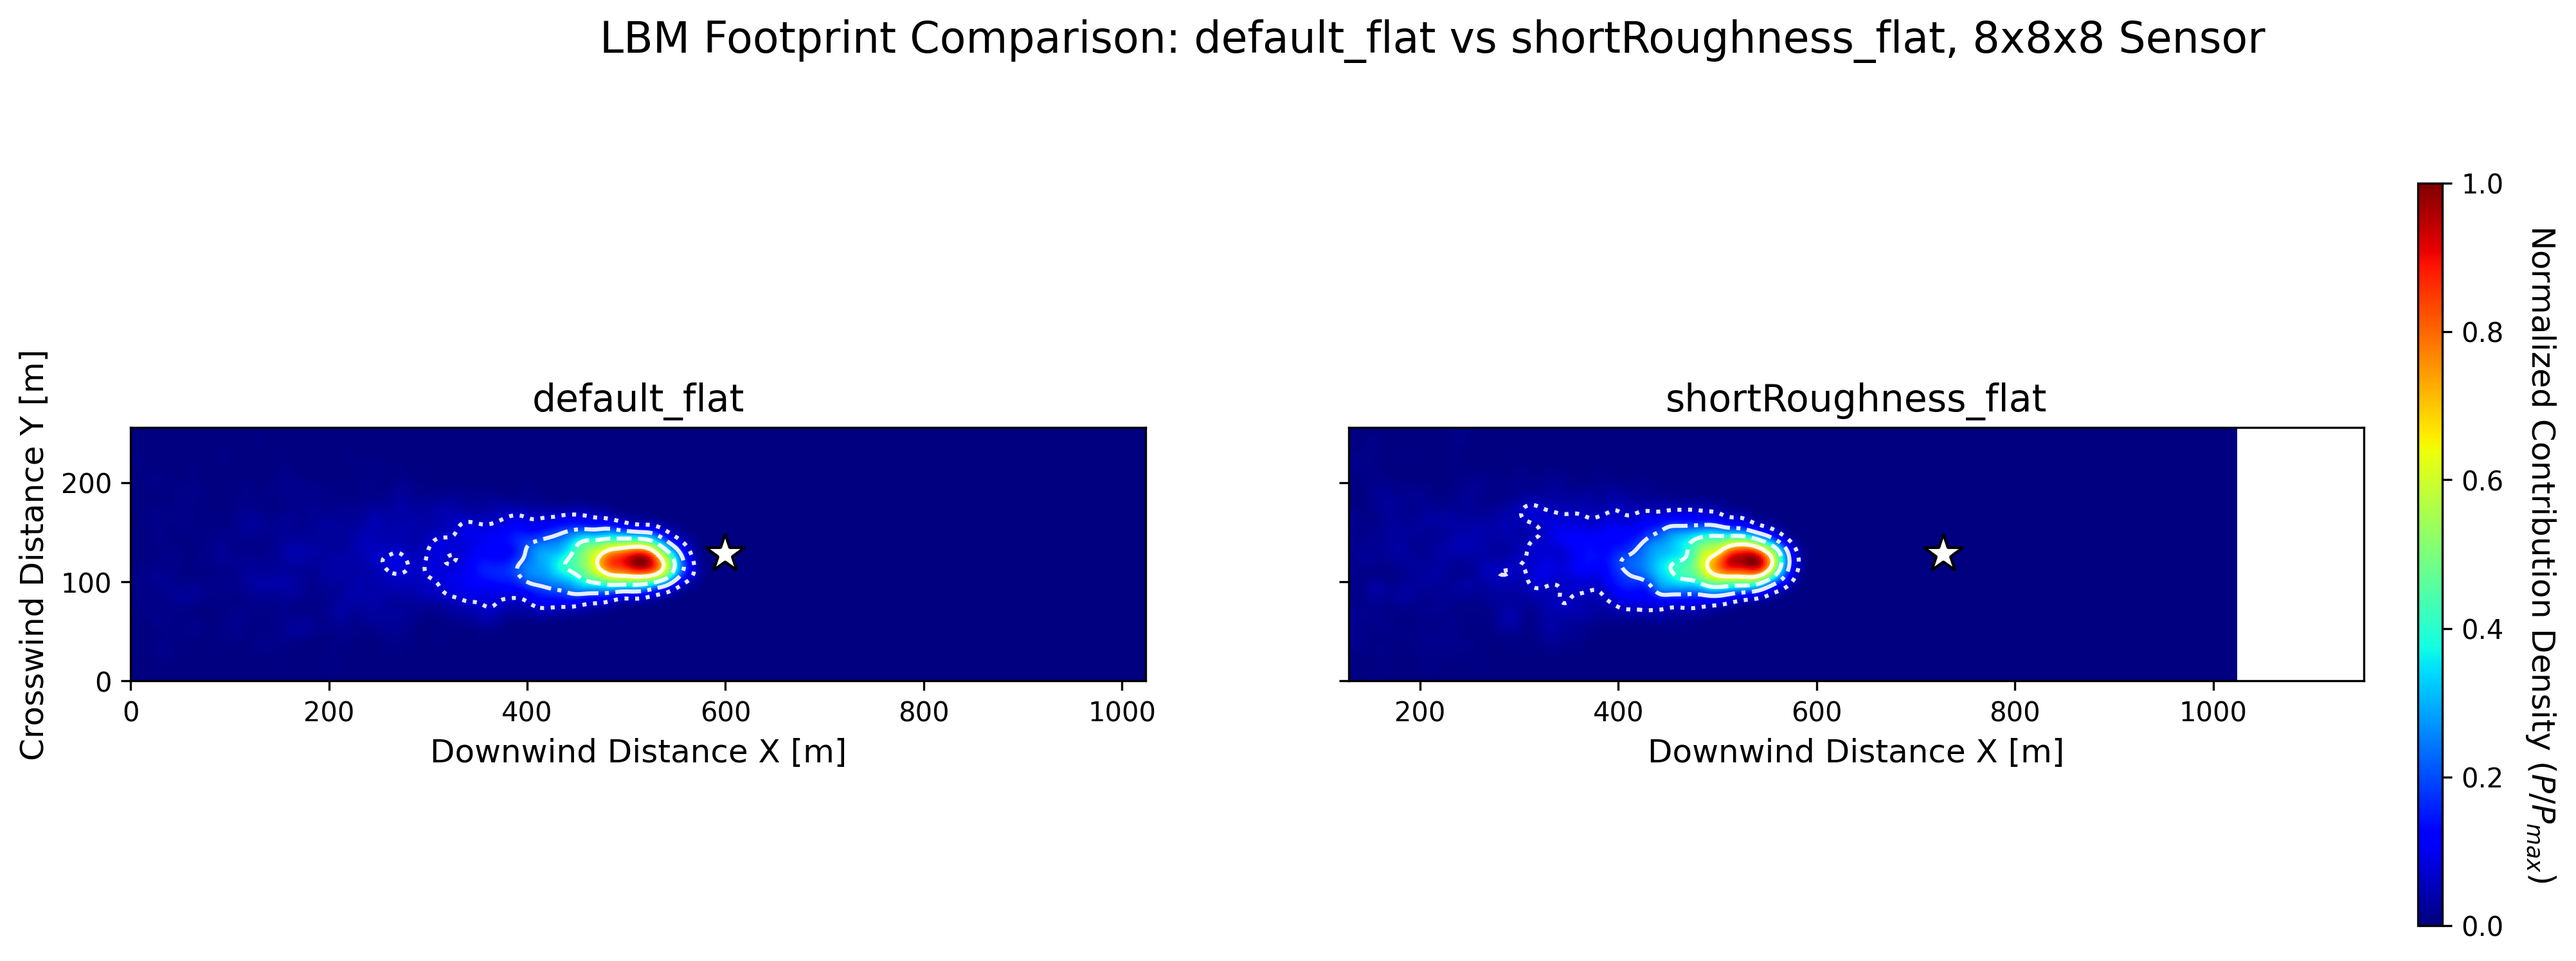
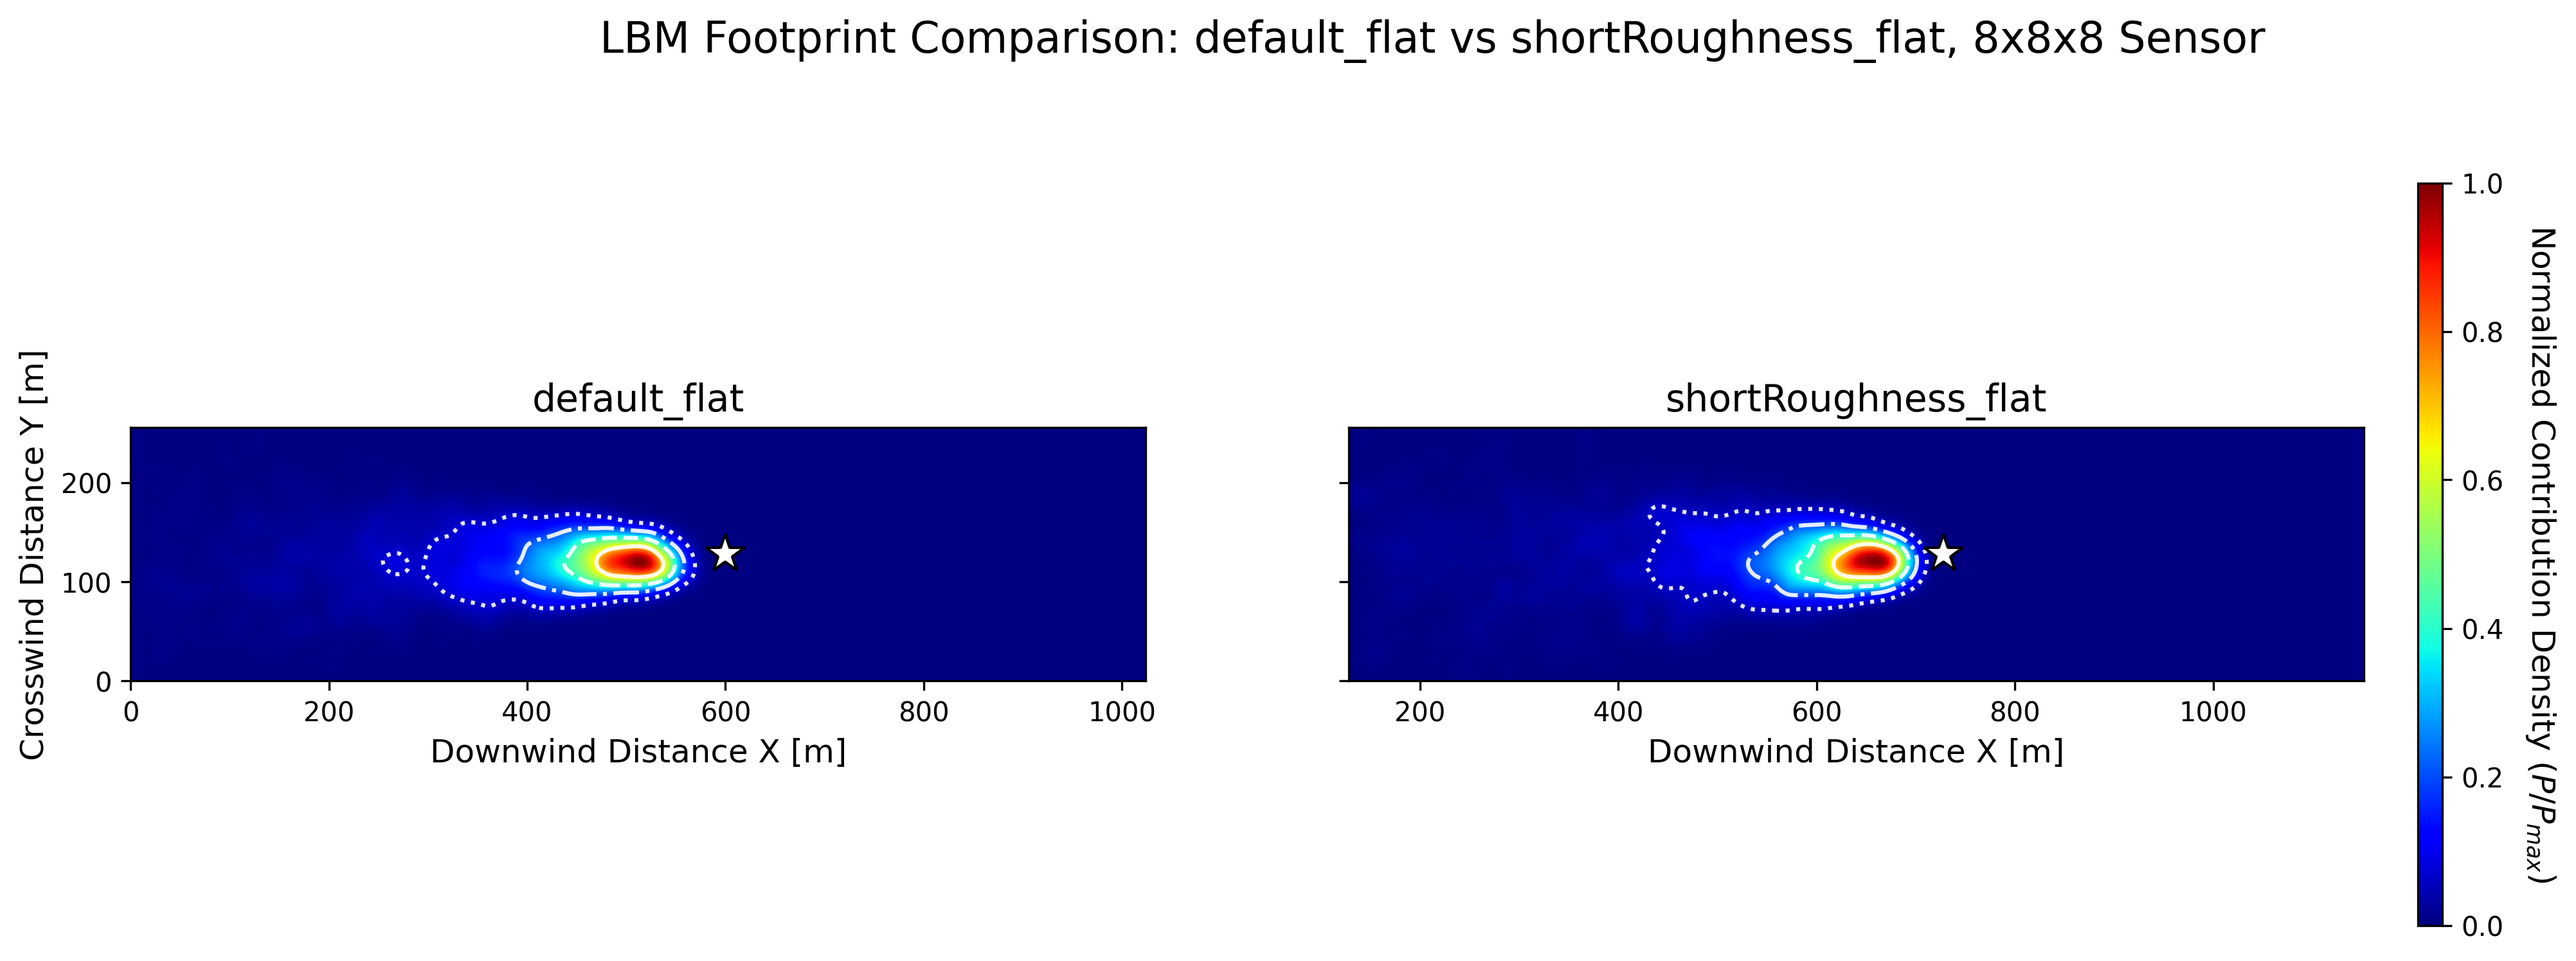
compare LBM cases update, short roughness comparisons

Changed region(s): [[0.8423, 0.4308, 0.9359, 0.7077], [0.5615, 0.4923, 0.7487, 0.6462], [0.1872, 0.5231, 0.2808, 0.6462]]

diff --git a/scripts/compare_lbm_cases.py b/scripts/compare_lbm_cases.py
@@ -16,91 +16,109 @@ from plotting_core.footprint_plots import plot_lbm_comparison
 
 def main():
     # 1. Paths and Setup
-    sensor_size_x = 40
-    sensor_size_y = 40
+    sensor_size_x = 8
+    sensor_size_y = 8
     sensor_size_z = 8
 
-    base_dir = r"Z:\Particle_PostProcess_Outputs"
-    pos_file = r"Z:\particle_position\particle_position.txt"
+    base_dir = r"Y:\Particle_PostProcess_Outputs"
+    
+    pos_file1 = r"Y:\particle_position\pos_flat_3072.txt"
+    pos_file2 = r"Y:\particle_position\pos_flat_3072_shortroughness.txt"
 
-    case_paths = {"Default V_SGS": "20260527_particle_flat_3072",
-                  "0.5 V_SGS": "20260619_particle_flat_halfVSGS"}
+    case_paths = {"default_flat": "20260527_particle_flat_3072",
+                  "halfVSGS_flat": "20260619_particle_flat_halfVSGS",
+                  "shortRoughness_flat": "20260703_particle_flat_shortroughness"}
 
     sensor_paths = {"8x8x8": "sensor_8x8x8",
                     "40x40x8": "sensor_40x40x8"}
 
     output_dir = rf"../figures/flat_domain/sensor_{sensor_size_x}x{sensor_size_y}x{sensor_size_z}/LBM_Case_comparisons"
     os.makedirs(output_dir, exist_ok=True)
+
+    # Establish the case conditions:
+    case1_name = "default_flat"
+    case2_name = "shortRoughness_flat"
     
-    x_bounds = [0, 1024]
-    y_bounds = [0, 256]
-    sensor_x = 600.0
-    sensor_y = 128.0
+    x_bounds1 = [0, 1024]
+    y_bounds1 = [0, 256]
+
+    x_bounds2 = [128, 1152]
+    y_bounds2 = [0, 256]
+
+    sensor_x1 = 600.0
+    sensor_y1 = 128.0
+
+    sensor_x2 = 728.0
+    sensor_y2 = 128.0
+
     contour_levels = [0.8, 0.6, 0.4, 0.2]
 
     # sigma_v_dict = params["sigma_v"]
     sensor_heights = [10, 20, 30, 40]
     
     print("Loading source positions...")
-    source_map = load_source_positions(pos_file)
+    source1_map = load_source_positions(pos_file1)
+    source2_map = load_source_positions(pos_file2)
     
-    print("--- Commencing Default (1.0) V_SGS LBM vs 0.5 V_SGS LBM Comparison ---")
+    print(f"--- Commencing LBM Case Comparison ---")
     
     for sz in sensor_heights:
 
-        target_sigma = 0.4 + (sz / 31.25)
+        target_sigma = 0.4 + (sz / 25.0)
         # ==========================================
         # STEP A: LOAD LBM CASE 1 DATA
         # ==========================================
-        csv1_path = os.path.join(base_dir, case_paths["Default V_SGS"], sensor_paths[f"{sensor_size_x}x{sensor_size_y}x{sensor_size_z}"], "1200-1800_footprint", f"footprint_{int(sensor_x)}_{int(sensor_y)}_{sz}.csv")
+        csv1_path = os.path.join(base_dir, case_paths[case1_name], sensor_paths[f"{sensor_size_x}x{sensor_size_y}x{sensor_size_z}"], "1200-1800_footprint", f"footprint_{int(sensor_x1)}_{int(sensor_y1)}_{sz}.csv")
         if not os.path.exists(csv1_path):
             print(f"  [!] Skipping {csv1_path} - not found.")
             continue
             
         count1_map = load_footprint_counts(csv1_path)
-        x1_pts, y1_pts, counts1 = merge_counts_with_positions(source_map, count1_map)
+        x1_pts, y1_pts, counts1 = merge_counts_with_positions(source1_map, count1_map)
         
-        X1_low, Y1_low, raw1_pdf = points_to_grid(x1_pts, y1_pts, counts1, dx=8.0, dy=8.0, x_bounds=x_bounds, y_bounds=y_bounds)
+        X1_low, Y1_low, raw1_pdf = points_to_grid(x1_pts, y1_pts, counts1, dx=8.0, dy=8.0, x_bounds=x_bounds1, y_bounds=y_bounds1)
 
         smoothed1_pdf = smooth_footprint_grid(raw1_pdf, dx=8.0, dy=8.0, sigma=target_sigma)
         
         X1_fine, Y1_fine, lbm1_pdf_fine = refine_footprint_grid(
-            X1_low, Y1_low, smoothed1_pdf, x_bounds=x_bounds, y_bounds=y_bounds, target_res=1.0
+            X1_low, Y1_low, smoothed1_pdf, x_bounds=x_bounds1, y_bounds=y_bounds1, target_res=1.0
         )
         lbm1_thresholds = get_contour_thresholds(lbm1_pdf_fine, dx=1.0, dy=1.0, levels=contour_levels)
 
         # ==========================================
         # STEP B: LOAD LBM CASE 2 DATA
         # ==========================================
-        csv2_path = os.path.join(base_dir, case_paths["0.5 V_SGS"], sensor_paths[f"{sensor_size_x}x{sensor_size_y}x{sensor_size_z}"], "1200-1800_footprint", f"footprint_{int(sensor_x)}_{int(sensor_y)}_{sz}.csv")
+        csv2_path = os.path.join(base_dir, case_paths[case2_name], sensor_paths[f"{sensor_size_x}x{sensor_size_y}x{sensor_size_z}"], "1200-1800_footprint", f"footprint_{int(sensor_x2)}_{int(sensor_y2)}_{sz}.csv")
         if not os.path.exists(csv2_path):
             print(f"  [!] Skipping {csv2_path} - not found.")
             continue
             
         count2_map = load_footprint_counts(csv2_path)
-        x2_pts, y2_pts, counts2 = merge_counts_with_positions(source_map, count2_map)
+        x2_pts, y2_pts, counts2 = merge_counts_with_positions(source2_map, count2_map)
         
-        X2_low, Y2_low, raw2_pdf = points_to_grid(x2_pts, y2_pts, counts2, dx=8.0, dy=8.0, x_bounds=x_bounds, y_bounds=y_bounds)
+        X2_low, Y2_low, raw2_pdf = points_to_grid(x2_pts, y2_pts, counts2, dx=8.0, dy=8.0, x_bounds=x_bounds2, y_bounds=y_bounds2)
 
         smoothed2_pdf = smooth_footprint_grid(raw2_pdf, dx=8.0, dy=8.0, sigma=target_sigma)
         
         X2_fine, Y2_fine, lbm2_pdf_fine = refine_footprint_grid(
-            X2_low, Y2_low, smoothed2_pdf, x_bounds=x_bounds, y_bounds=y_bounds, target_res=1.0
+            X2_low, Y2_low, smoothed2_pdf, x_bounds=x_bounds2, y_bounds=y_bounds2, target_res=1.0
         )
         lbm2_thresholds = get_contour_thresholds(lbm2_pdf_fine, dx=1.0, dy=1.0, levels=contour_levels)
         
         # ==========================================
         # STEP C: PLOT COMPARISON
         # ==========================================
-        save_path = os.path.join(output_dir, f"side_by_side_lbmDefault_lbmHalfV_z{sz}.png")
+        save_path = os.path.join(output_dir, f"side_by_side_{case1_name}_{case2_name}_z{sz}.png")
         plot_lbm_comparison(
-            X=X1_fine, Y=Y1_fine, 
+            X1=X1_fine, Y1=Y1_fine, X2=X2_fine, Y2=Y2_fine, 
             lbm1_pdf=lbm1_pdf_fine, lbm2_pdf=lbm2_pdf_fine, 
             lbm1_thresholds=lbm1_thresholds, lbm2_thresholds=lbm2_thresholds,
-            sensor_pos=(sensor_x, sensor_y), 
-            title=f"LBM Footprint Comparison: Default (1.0) V_SGS vs 0.5 V_SGS, {sensor_size_x}x{sensor_size_y}x{sensor_size_z} Sensor",
-            case1_title="Default (1.0) V_SGS", case2_title="0.5 V_SGS",
-            save_path=save_path, x_bounds=x_bounds, y_bounds=y_bounds
+            sensor_pos1=(sensor_x1, sensor_y1), sensor_pos2=(sensor_x2, sensor_y2), 
+            title=f"LBM Footprint Comparison: {case1_name} vs {case2_name}, {sensor_size_x}x{sensor_size_y}x{sensor_size_z} Sensor",
+            case1_title=case1_name, case2_title=case2_name,
+            save_path=save_path,
+            x_bounds1=x_bounds1, y_bounds1=y_bounds1, 
+            x_bounds2=x_bounds2, y_bounds2=y_bounds2
         )
         print(f"  -> Saved LBM Cases comparison to {save_path}")
 

diff --git a/plotting_core/footprint_plots.py b/plotting_core/footprint_plots.py
@@ -42,6 +42,7 @@ def plot_absolute_footprint(x, y, counts, sensor_x, sensor_y, save_path, domain_
     plt.close(fig)
     print(f"Saved footprint figure to: {save_path}")
 
+
 def plot_footprint_overlay(X, Y, lbm_pdf, schmid_pdf, lbm_thresh, schmid_thresh, 
                            sensor_pos, title, save_path, x_bounds=[0, 1024], y_bounds=[0, 256]):
     """
@@ -78,6 +79,7 @@ def plot_footprint_overlay(X, Y, lbm_pdf, schmid_pdf, lbm_thresh, schmid_thresh,
     plt.tight_layout()
     plt.savefig(save_path, dpi=300)
     plt.close()
+    
 
 def plot_model_comparison(X, Y, lbm_pdf, model_pdf, lbm_thresholds, model_thresholds, 
                           sensor_pos, title, model_title, save_path, x_bounds=[0, 1024], y_bounds=[0, 256]):
@@ -142,8 +144,9 @@ def plot_model_comparison(X, Y, lbm_pdf, model_pdf, lbm_thresholds, model_thresh
     plt.close(fig)
 
 
-def plot_lbm_comparison(X, Y, lbm1_pdf, lbm2_pdf, lbm1_thresholds, lbm2_thresholds,
-                          sensor_pos, title, case1_title, case2_title, save_path, x_bounds=[0, 1024], y_bounds=[0, 256]):
+def plot_lbm_comparison(X1, Y1, X2, Y2, lbm1_pdf, lbm2_pdf, lbm1_thresholds, lbm2_thresholds,
+                          sensor_pos1, sensor_pos2, title, case1_title, case2_title, save_path,
+                          x_bounds1=[0, 1024], y_bounds1=[0, 256], x_bounds2=[0, 1024], y_bounds2=[0, 256]):
     """
     Plots two LBM footprint cases side-by-side as normalized heatmaps.
     """
@@ -169,29 +172,30 @@ def plot_lbm_comparison(X, Y, lbm1_pdf, lbm2_pdf, lbm1_thresholds, lbm2_threshol
     # ==========================================
     # PANEL 1: LBM CASE 1 DATA
     # ==========================================
-    im1 = ax1.pcolormesh(X, Y, lbm1_norm, **mesh_kwargs)
-    ax1.contour(X, Y, lbm1_norm, levels=lbm1_thresh_norm, colors='white', 
+    im1 = ax1.pcolormesh(X1, Y1, lbm1_norm, **mesh_kwargs)
+    ax1.contour(X1, Y1, lbm1_norm, levels=lbm1_thresh_norm, colors='white', 
                 linewidths=1.5, linestyles=line_styles, alpha=0.9)
     
-    ax1.plot(sensor_pos[0], sensor_pos[1], 'w*', markersize=15, markeredgecolor='k')
+    ax1.plot(sensor_pos1[0], sensor_pos1[1], 'w*', markersize=15, markeredgecolor='k')
     ax1.set_title(case1_title, fontsize=14)
     ax1.set_xlabel("Downwind Distance X [m]", fontsize=12)
     ax1.set_ylabel("Crosswind Distance Y [m]", fontsize=12)
-    ax1.set_xlim(x_bounds[0], x_bounds[1])
-    ax1.set_ylim(y_bounds[0], y_bounds[1])
+    ax1.set_xlim(x_bounds1[0], x_bounds1[1])
+    ax1.set_ylim(y_bounds1[0], y_bounds1[1])
     ax1.set_aspect('equal', adjustable='box')
 
     # ==========================================
     # PANEL 2: LBM CASE 2 DATA
     # ==========================================
-    im2 = ax2.pcolormesh(X, Y, lbm2_norm, **mesh_kwargs)
-    ax2.contour(X, Y, lbm2_norm, levels=lbm2_thresh_norm, colors='white', 
+    im2 = ax2.pcolormesh(X2, Y2, lbm2_norm, **mesh_kwargs)
+    ax2.contour(X2, Y2, lbm2_norm, levels=lbm2_thresh_norm, colors='white', 
                 linewidths=1.5, linestyles=line_styles, alpha=0.9)
     
-    ax2.plot(sensor_pos[0], sensor_pos[1], 'w*', markersize=15, markeredgecolor='k')
+    ax2.plot(sensor_pos2[0], sensor_pos2[1], 'w*', markersize=15, markeredgecolor='k')
     ax2.set_title(case2_title, fontsize=14)
     ax2.set_xlabel("Downwind Distance X [m]", fontsize=12)
-    ax2.set_xlim(x_bounds[0], x_bounds[1])
+    ax2.set_xlim(x_bounds2[0], x_bounds2[1])
+    ax1.set_ylim(y_bounds2[0], y_bounds2[1])
     ax2.set_aspect('equal', adjustable='box')
 
     # ==========================================

diff --git a/scripts/compare_kljun_lbm.py b/scripts/compare_kljun_lbm.py
@@ -18,27 +18,27 @@ from plotting_core.footprint_plots import plot_model_comparison
 
 def main():
     # 1. Paths and Setup
-    sensor_size_x = 40
-    sensor_size_y = 40
+    sensor_size_x = 8
+    sensor_size_y = 8
     sensor_size_z = 8
 
-    base_dir = rf"Z:\Particle_PostProcess_Outputs\20260619_particle_flat_halfVSGS\sensor_{sensor_size_x}x{sensor_size_y}x{sensor_size_z}"
-    pos_file = r"Z:\particle_position\particle_position.txt"
+    base_dir = rf"Y:\Particle_PostProcess_Outputs\20260703_particle_flat_shortroughness\sensor_{sensor_size_x}x{sensor_size_y}x{sensor_size_z}"
+    pos_file = r"Y:\particle_position\particle_position.txt"
     params_path = r"../physics_core/metrics/schmid_params.json"
     # lbm_profile_csv = r"Z:\20260527_output_flat_3072\prof00180000_0000.csv"
 
     # NEW: XZ Matrix Paths
-    base_out = r"Z:\20260527_output_flat_3072"
+    base_out = r"Y:\20260703_output_flat_shortroughness"
     um_csv = os.path.join(base_out, "xz_yav_um00180000_0000.csv")
     vm_csv = os.path.join(base_out, "xz_yav_vm00180000_0000.csv")
     vv_csv = os.path.join(base_out, "xz_yav_vv00180000_0000.csv")
 
-    output_dir = rf"../figures/flat_domain/sensor_{sensor_size_x}x{sensor_size_y}x{sensor_size_z}/20260619_halfVSGS_kljun_comparisons"
+    output_dir = rf"../figures/flat_domain/sensor_{sensor_size_x}x{sensor_size_y}x{sensor_size_z}/20260703_particle_flat_shortroughness"
     os.makedirs(output_dir, exist_ok=True)
     
-    x_bounds = [0, 1024]
+    x_bounds = [0, 1280]
     y_bounds = [0, 256]
-    sensor_x = 600.0
+    sensor_x = 728.0
     sensor_y = 128.0
     contour_levels = [0.8, 0.6, 0.4, 0.2]
 
@@ -51,7 +51,7 @@ def main():
     u_star = params["u_star"]
     z0 = params["z0"]
     # sigma_v_dict = params["sigma_v"]
-    sensor_heights = [10, 20, 30, 40]
+    sensor_heights = [20]
     
     print("Loading Virtual Tower XZ fluid matrices...")
     um_mat = XZMatrixParser.parse_file(um_csv)
@@ -74,7 +74,7 @@ def main():
     print("Loading source positions...")
     source_map = load_source_positions(pos_file)
     
-    print("--- Commencing Kljun (2015) FFP vs LBM (0.5 V SGS) Comparison ---")
+    print("--- Commencing Kljun (2015) FFP vs LBM (short roughness) Comparison ---")
     
     for sz in sensor_heights:
         # Calculate exact Z index
@@ -125,13 +125,13 @@ def main():
         # ==========================================
         # STEP C: PLOT COMPARISON
         # ==========================================
-        save_path = os.path.join(output_dir, f"side_by_side_lbmHalfV_kljun_z{sz}.png")
+        save_path = os.path.join(output_dir, f"side_by_side_lbmShortRoughness_kljun_z{sz}.png")
         plot_model_comparison(
             X=X_fine, Y=Y_fine, 
             lbm_pdf=lbm_pdf_fine, model_pdf=kljun_pdf_fine, 
             lbm_thresholds=lbm_thresholds, model_thresholds=kljun_thresholds,
             sensor_pos=(sensor_x, sensor_y), 
-            title=f"Footprint Comparison: LBM (0.5 V SGS) vs Kljun FFP (Zm = {sz}m), {sensor_size_x}x{sensor_size_y}x{sensor_size_z} Sensor",
+            title=f"Footprint Comparison: LBM (Short Roughness) vs Kljun FFP (Zm = {sz}m), {sensor_size_x}x{sensor_size_y}x{sensor_size_z} Sensor",
             model_title="Kljun et al. (2015) FFP",
             save_path=save_path, x_bounds=x_bounds, y_bounds=y_bounds
         )
